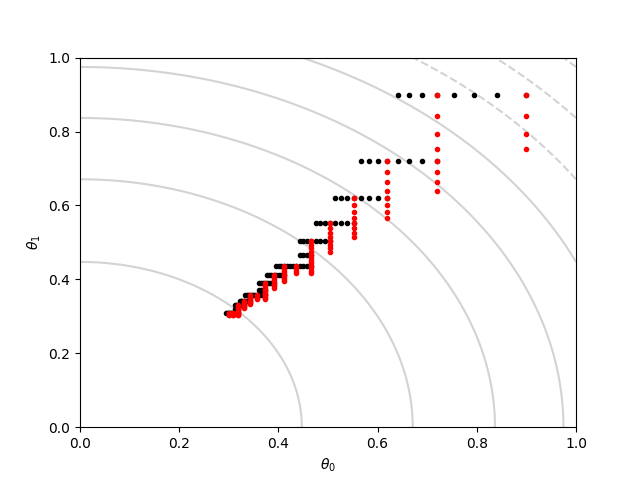
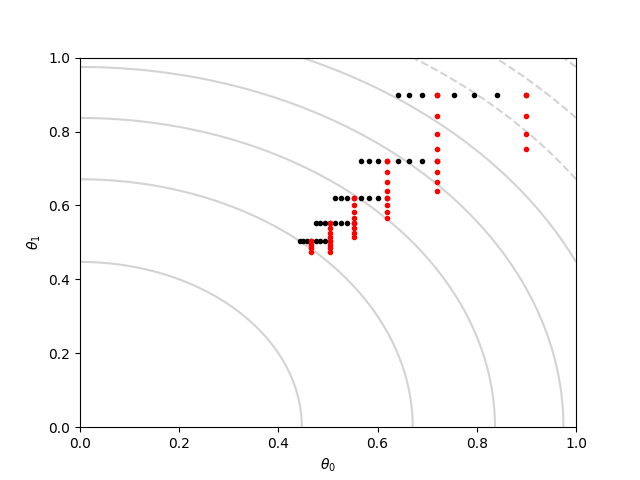
Done with the PBT graph.

Changed region(s): [[0.3438, 0.5312, 0.5, 0.6875]]

diff --git a/toy_model.py b/toy_model.py
@@ -1,4 +1,5 @@
 import tensorflow as tf
+import random
 
 class ToyModel:
     def __init__(self, sess, cluster_id, hparams):
@@ -8,17 +9,18 @@ class ToyModel:
         self.train_step = 0
         self.need_explore = False
 
+        self.perturb_factors = [0.8, 1.2]
+        self.lr = 0.02  
+
         self.theta_0 = tf.Variable(0.9)
         self.theta_1 = tf.Variable(0.9)
 
         if cluster_id == 0:
             self.hparams['h_0'] = 0.0
             self.hparams['h_1'] = 1.0
-            self.lr = 0.02
         else:
             self.hparams['h_0'] = 1.0
             self.hparams['h_1'] = 0.0
-            self.lr = 0.02
 
         self.surrogate_obj = 1.2 - (self.hparams['h_0']*tf.square(self.theta_0) + self.hparams['h_1']*tf.square(self.theta_1))
         self.obj = 1.2 - (tf.square(self.theta_0) + tf.square(self.theta_1))
@@ -41,10 +43,47 @@ class ToyModel:
             self.sess.run(self.train_op)
             self.train_step += 1
 
+    def _perturb_float(self, val, limit_min, limit_max):
+            # Noted, some hp value can't exceed reasonable range
+            float_string = str(limit_min)
+            if 'e' in float_string:
+                _, n_digits = float_string.split('e')
+                if '-' in n_digits:
+                    n_digits = int(n_digits)*-1
+                else:
+                    n_digits = int(n_digits)
+            else:
+                n_digits = str(limit_min)[::-1].find('.')
+            min = val * self.perturb_factors[0]
+            max = val * self.perturb_factors[1]
+            if min < limit_min:
+                min = limit_min
+                n_digits += 1
+            if max > limit_max:
+                max = limit_max
+            val = random.uniform(min, max)
+            val = round(val, n_digits)
+            
+            return val
+
     def perturb_hparams_and_update_graph(self):
-        return
+        self.hparams['h_0'] = self._perturb_float(self.hparams['h_0'], 0.0, 1.0)
+        self.hparams['h_1'] = self._perturb_float(self.hparams['h_1'], 0.0, 1.0)
+
+        self.surrogate_obj = 1.2 - (self.hparams['h_0']*tf.square(self.theta_0) + self.hparams['h_1']*tf.square(self.theta_1))
+        self.obj = 1.2 - (tf.square(self.theta_0) + tf.square(self.theta_1))
+        self.loss = tf.square((self.obj - self.surrogate_obj))
+        #self.loss = tf.square(self.theta_0) + tf.square(self.theta_1)
+        self.fake_loss = tf.square(self.theta_0) + tf.square(self.theta_1)
+
+        self.optimizer = tf.train.GradientDescentOptimizer(self.lr)
+        self.train_op = self.optimizer.minimize(self.loss)
+
+        #NOTE: We don't reload the variables here, but it seems working.
+        self.trainable_vars = [self.theta_0, self.theta_1]
 
     #the loss is not the same as the loss to compute the gradients
+    #this may be a bug of the paper
     def get_loss(self):
         return self.sess.run(self.fake_loss)
 
@@ -52,18 +91,8 @@ class ToyModel:
         return [self.cluster_id, self.get_loss(), self.sess.run(self.trainable_vars), self.hparams]
 
     def set_values(self, values):
-        print 'loss before set = {} val_exp={} val_real={} h0h1={}, {}'.format(
-            self.sess.run([self.loss, self.obj, self.surrogate_obj]), 
-            values[2], self.sess.run(self.trainable_vars),
-            self.hparams['h_0'], self.hparams['h_1'])
-
         for i in range(len(self.trainable_vars)):
             self.trainable_vars[i].load(values[2][i], self.sess)
-
-        print 'loss after set = {} val_exp={} val_real={} h0h1={}, {}'.format(
-            self.sess.run([self.loss, self.obj, self.surrogate_obj]), 
-            values[2], self.sess.run(self.trainable_vars),
-            self.hparams['h_0'], self.hparams['h_1'])
         
         '''self.hparams = values[3]
         self.surrogate_obj = 1.2 - (self.hparams['h_0']*tf.square(self.theta_0) + self.hparams['h_1']*tf.square(self.theta_1))

diff --git a/pbt_cluster.py b/pbt_cluster.py
@@ -85,9 +85,9 @@ class PBTCluster:
 
         # copy top 25% to bottom 25%
         all_values = sorted(all_values, key=lambda value: value[1])
-        print 'The ranking before exploit'
+        '''print 'The ranking before exploit'
         for i in all_values:
-            print 'graph {}, loss={}'.format(i[0], i[1])
+            print 'graph {}, loss={}'.format(i[0], i[1])'''
         num_graphs_to_copy = math.ceil(float(self.pop_size) / 4.0)
         graphs_need_updating = []
         for i in range(num_graphs_to_copy):
@@ -137,7 +137,7 @@ class PBTCluster:
         pyplot.plot(zip(*training_log[1])[0], zip(*training_log[1])[1], '.', color='red')
         pyplot.contour(x, y, z, colors='lightgray')
         #pyplot.show()
-        pyplot.savefig('exploit_only' + '.png')
+        pyplot.savefig('PBT' + '.png')
 
         return
 

diff --git a/main_manager.py b/main_manager.py
@@ -20,7 +20,7 @@ if rank == master_rank:
     cluster = PBTCluster(2, comm, master_rank)
     time.sleep(1)
     for i in range(30):
-        print '\nround {}'.format(i)
+        print '\nRound {}'.format(i)
         cluster.train(4)
         cluster.exploit()
         cluster.explore()
